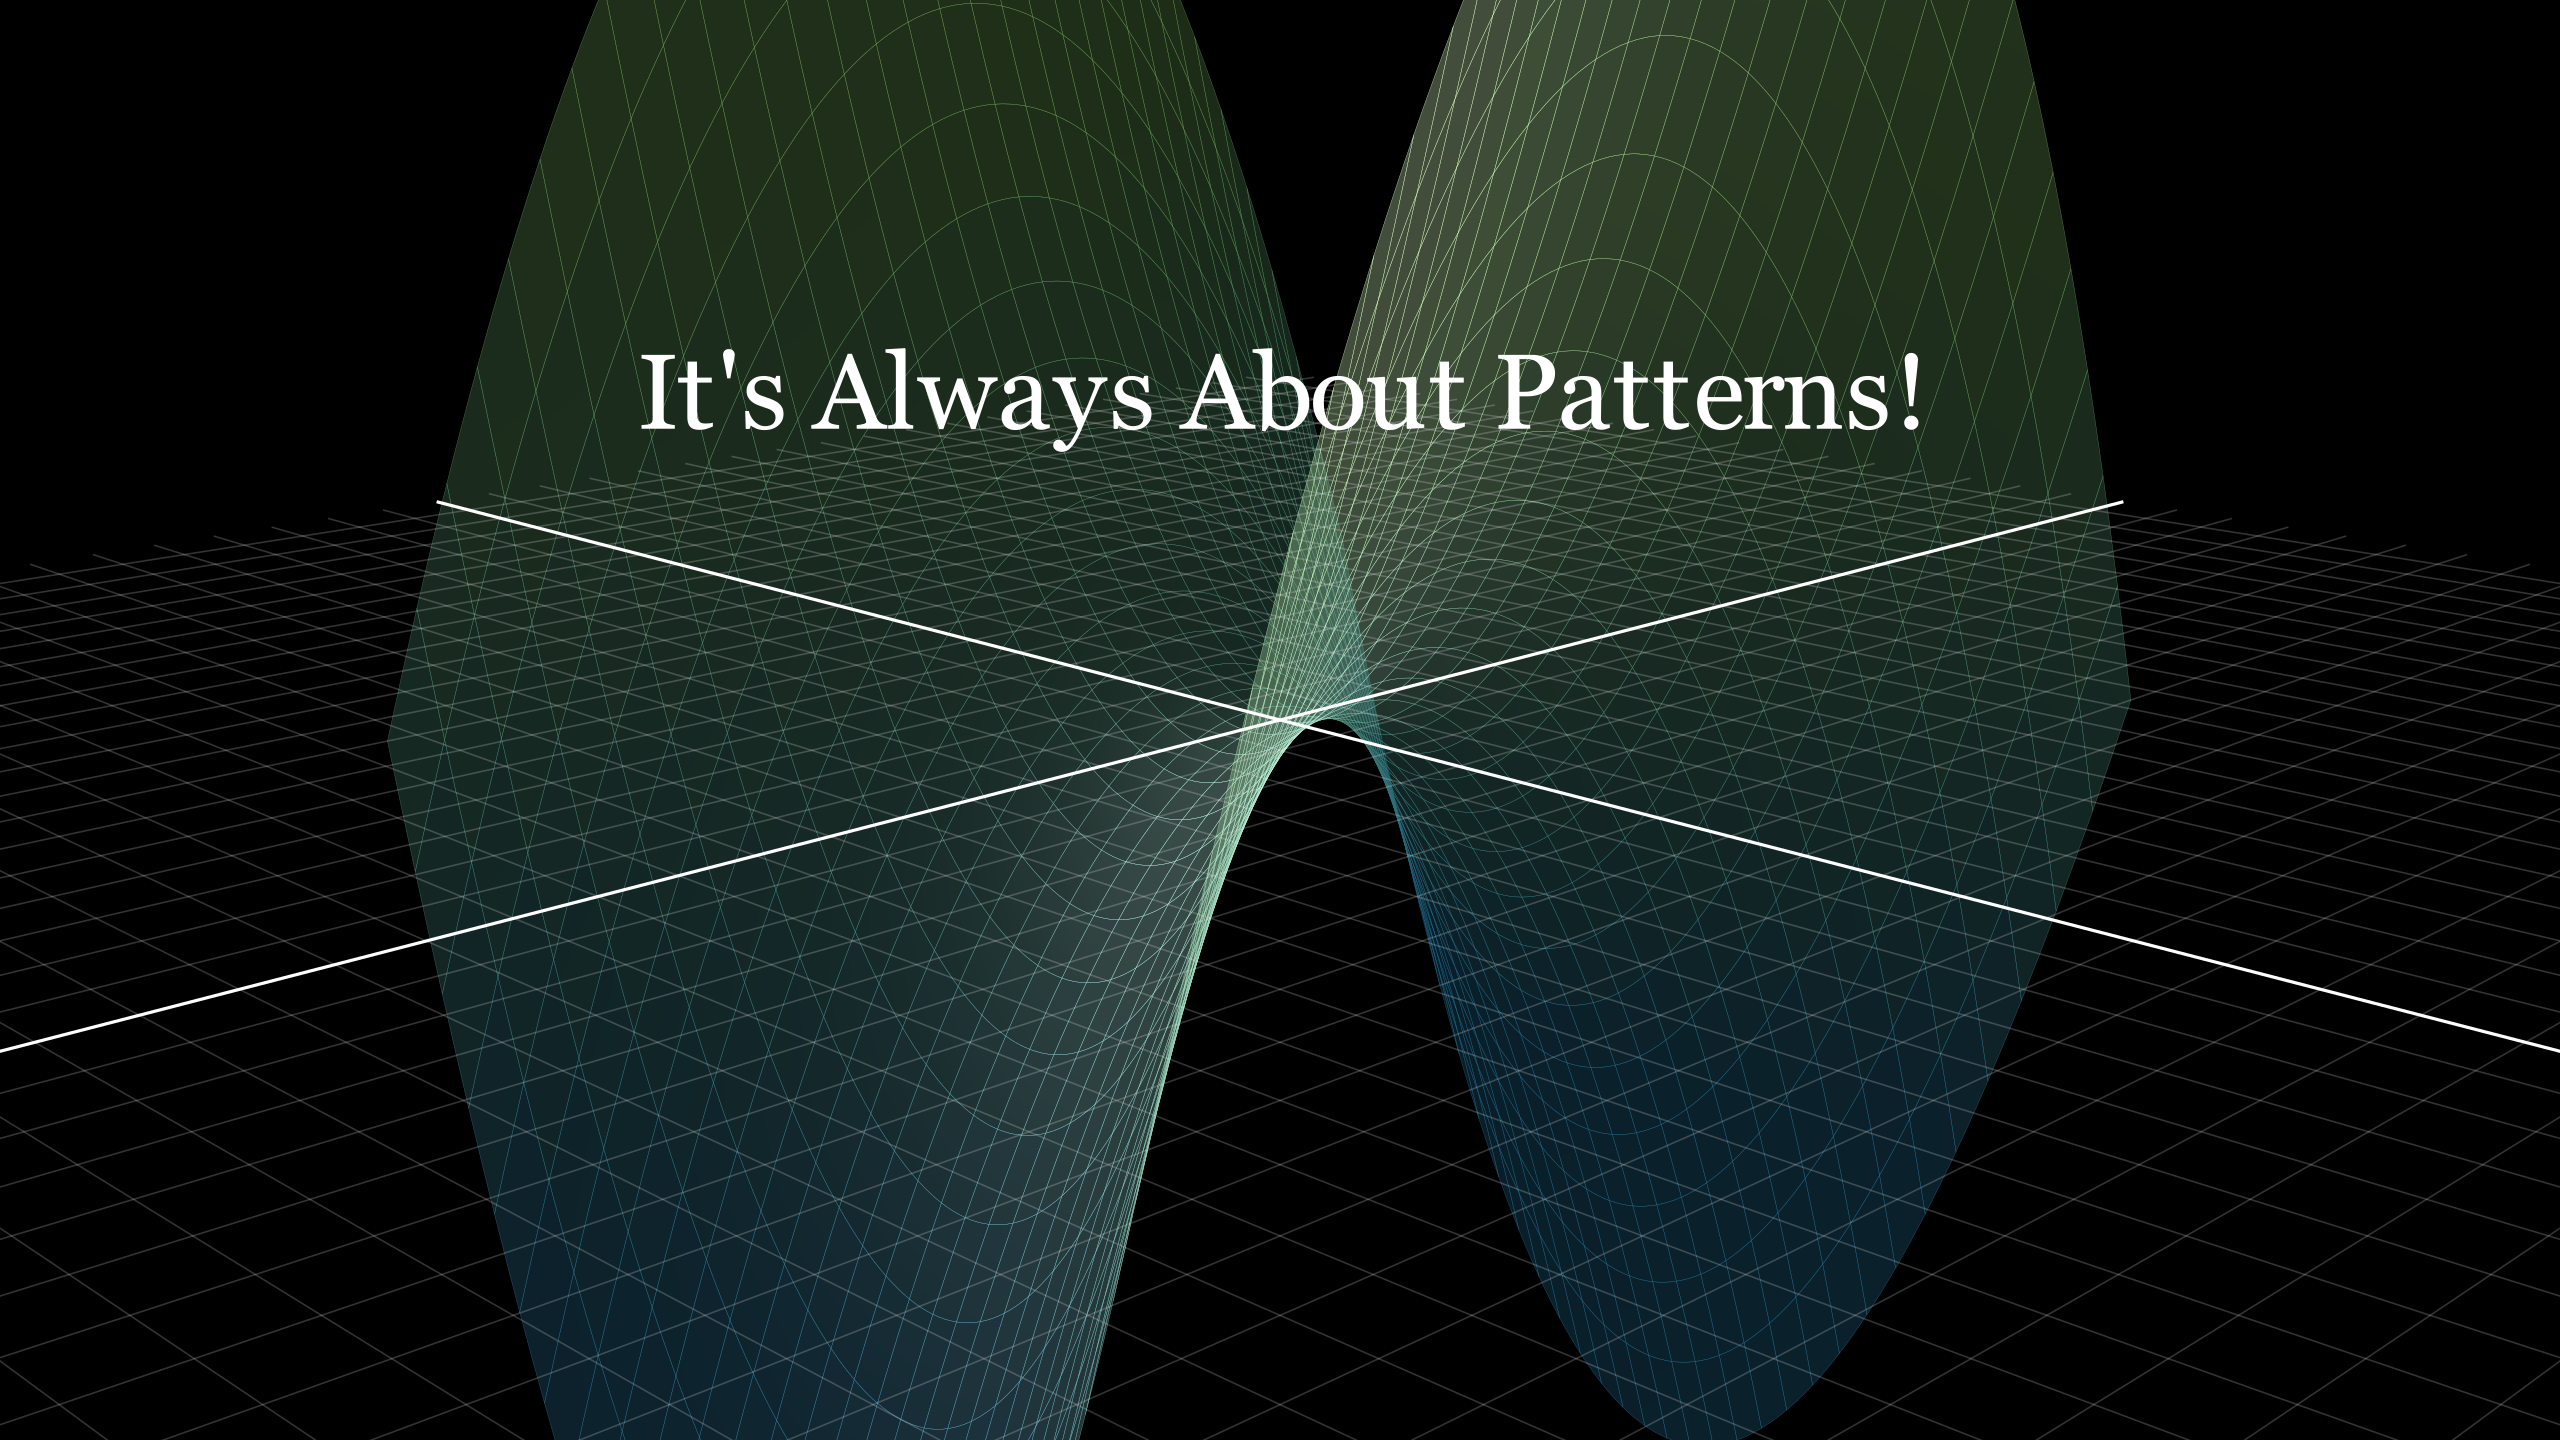
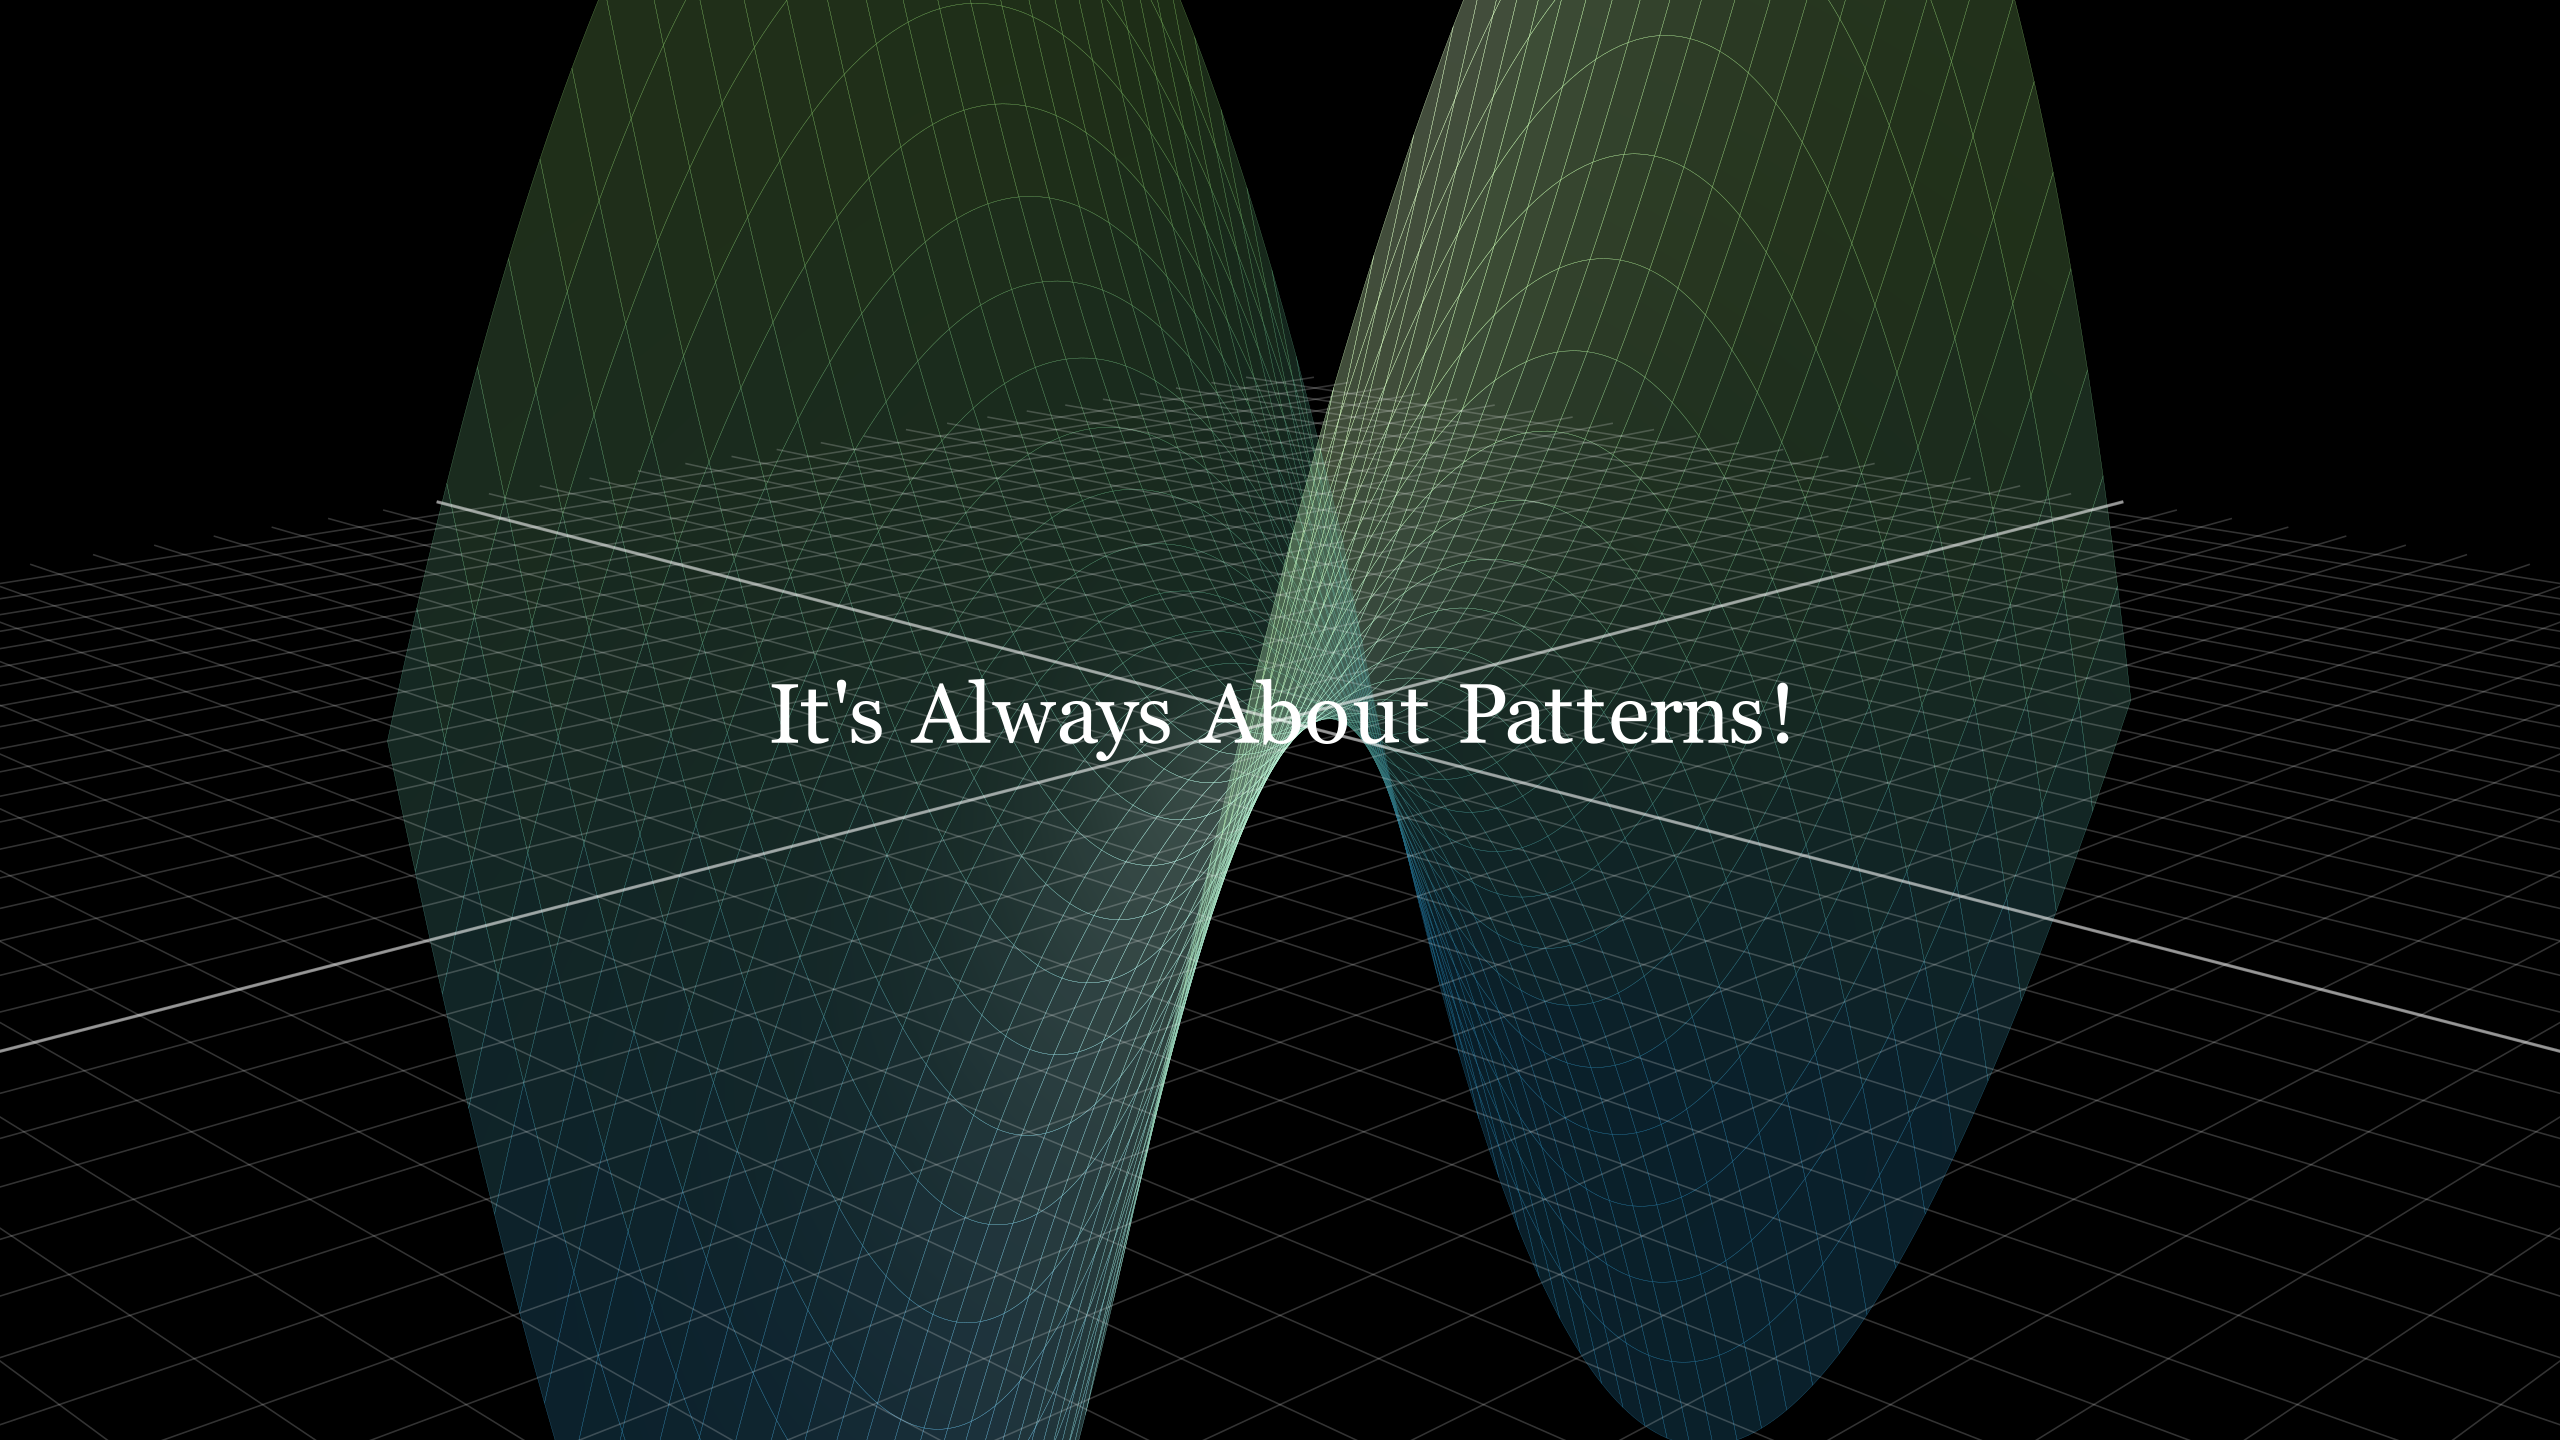
Refactor code structure for improved readability and maintainability

Changed region(s): [[0.25, 0.25, 0.75, 0.3125], [0.2812, 0.4688, 0.6875, 0.5312]]

diff --git a/banner.py b/banner.py
@@ -19,7 +19,7 @@ class Banner(ThreeDScene):
                 "stroke_opacity": 0.2,
             }
         )
-        grid.get_axes().set_opacity(1)
+        grid.get_axes().set_opacity(0.5)
 
         axes_3d = ThreeDAxes()
         surface = axes_3d.plot_surface(
@@ -34,11 +34,10 @@ class Banner(ThreeDScene):
 
         title = Text(
             "It's Always About Patterns!",
-            font_size=48,
+            font_size=38,
             color=WHITE
         )
 
         self.add_fixed_in_frame_mobjects(title)
-        title.shift(UP * 2)
 
         self.add(grid, surface)
